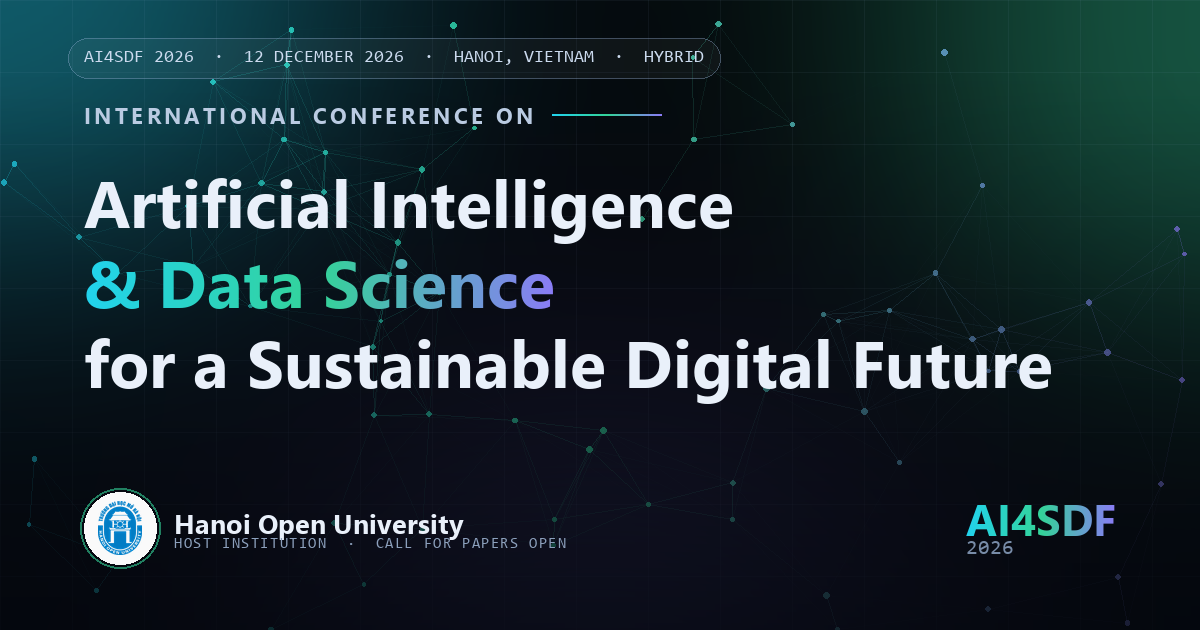
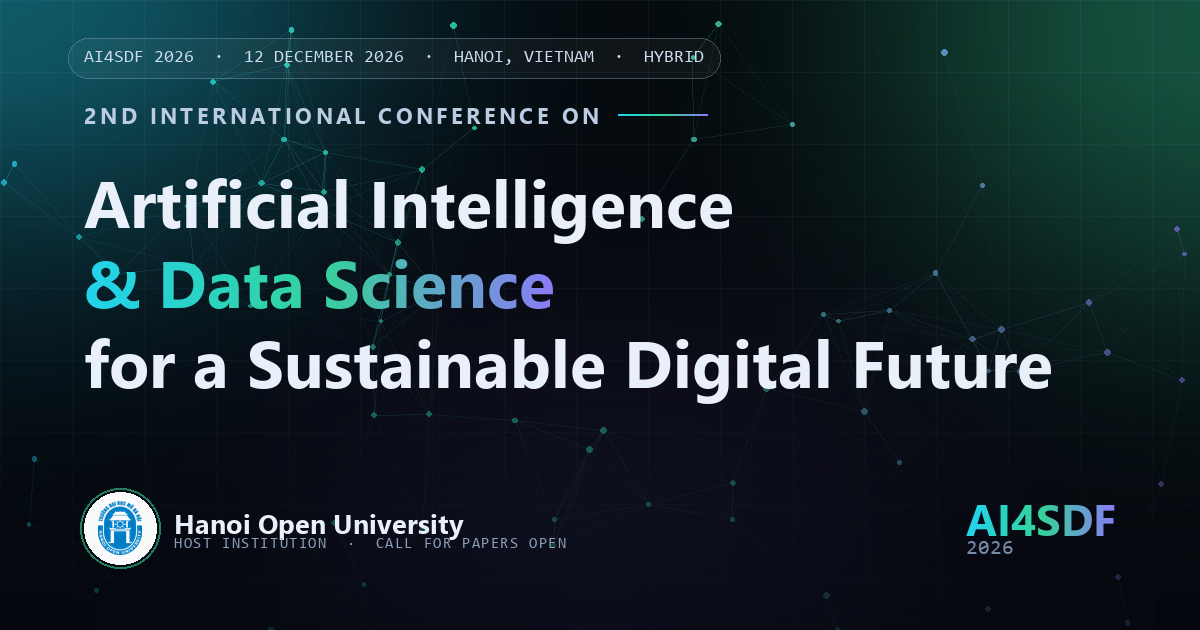
Mark the second edition, add the direct CMT link, drop the em dashes
Three changes asked for by the organisers:

- The conference is the second edition, as CMT itself records. "2nd"
  now appears in the hero heading, the page title, the Open Graph and
  JSON-LD metadata, the About paragraph, the footer, the Call for Papers
  sheet and the social cover image.
- Signing in to CMT is not enough on its own: without a direct link an
  author has to find the conference by name in CMT's list. Step 2 now
  carries the address, and a note explains why it is worth keeping.
  The walkthrough is six steps as a result, and the two places that said
  "five steps" now just say "the steps".
- Every em dash in the visible copy is gone, replaced by a colon, a
  semicolon, a comma, parentheses or a full stop as the sentence needed.
  The countdown placeholders read "00" instead of a dash before the
  script fills them in, and the spaced en dashes in the short spec chips
  are closed up.

Changed region(s): [[0.0617, 0.1508, 0.5858, 0.2111]]

diff --git a/index.html b/index.html
@@ -3,14 +3,14 @@
 <head>
 <meta charset="utf-8">
 <meta name="viewport" content="width=device-width, initial-scale=1, viewport-fit=cover">
-<title>AI4SDF 2026 — International Conference on Artificial Intelligence and Data Science for a Sustainable Digital Future</title>
-<meta name="description" content="AI4SDF 2026 — International Conference on Artificial Intelligence and Data Science for a Sustainable Digital Future. Hosted by Hanoi Open University, 12 December 2026. Hybrid, English-language. Call for papers open.">
+<title>AI4SDF 2026: 2nd International Conference on Artificial Intelligence and Data Science for a Sustainable Digital Future</title>
+<meta name="description" content="AI4SDF 2026: 2nd International Conference on Artificial Intelligence and Data Science for a Sustainable Digital Future. Hosted by Hanoi Open University, 12 December 2026. Hybrid, English-language. Call for papers open.">
 <meta name="theme-color" content="#04070E">
 <link rel="canonical" href="https://conf.hou.edu.vn/ai4sdf/">
 
 <meta property="og:type" content="website">
 <meta property="og:site_name" content="AI4SDF 2026">
-<meta property="og:title" content="AI4SDF 2026 — AI and Data Science for a Sustainable Digital Future">
+<meta property="og:title" content="AI4SDF 2026: 2nd International Conference on AI and Data Science">
 <meta property="og:description" content="International conference hosted by Hanoi Open University. 12 December 2026, Hanoi, Vietnam. Hybrid. Call for papers open until 30 October 2026.">
 <meta property="og:url" content="https://conf.hou.edu.vn/ai4sdf/">
 <meta property="og:image" content="https://conf.hou.edu.vn/ai4sdf/assets/img/og-cover.png">
@@ -20,13 +20,13 @@
 <link rel="preconnect" href="https://fonts.googleapis.com">
 <link rel="preconnect" href="https://fonts.gstatic.com" crossorigin>
 <link href="https://fonts.googleapis.com/css2?family=Sora:wght@300;400;600;700;800&family=Inter:wght@400;500;600;700&family=JetBrains+Mono:wght@400;600&display=swap" rel="stylesheet">
-<link rel="stylesheet" href="assets/css/style.css?v=20260828b">
+<link rel="stylesheet" href="assets/css/style.css?v=20260828c">
 
 <script type="application/ld+json">
 {
   "@context": "https://schema.org",
   "@type": "Event",
-  "name": "AI4SDF 2026 — International Conference on Artificial Intelligence and Data Science for a Sustainable Digital Future",
+  "name": "AI4SDF 2026: 2nd International Conference on Artificial Intelligence and Data Science for a Sustainable Digital Future",
   "startDate": "2026-12-12T08:30:00+07:00",
   "endDate": "2026-12-12T16:00:00+07:00",
   "eventStatus": "https://schema.org/EventScheduled",
@@ -100,7 +100,7 @@
     </p>
 
     <h1 class="hero__title" data-reveal>
-      <span class="hero__title-over">International Conference on</span>
+      <span class="hero__title-over">2nd International Conference on</span>
       <span class="hero__title-line">Artificial Intelligence</span>
       <span class="hero__title-line hero__title-line--grad">&amp; Data Science</span>
       <span class="hero__title-line">for a Sustainable</span>
@@ -125,13 +125,13 @@
     </div>
 
     <div class="countdown" id="countdown" data-reveal aria-label="Time remaining until the conference">
-      <div class="countdown__unit"><b data-cd="d">—</b><i>days</i></div>
+      <div class="countdown__unit"><b data-cd="d">00</b><i>days</i></div>
       <div class="countdown__sep">:</div>
-      <div class="countdown__unit"><b data-cd="h">—</b><i>hours</i></div>
+      <div class="countdown__unit"><b data-cd="h">00</b><i>hours</i></div>
       <div class="countdown__sep">:</div>
-      <div class="countdown__unit"><b data-cd="m">—</b><i>minutes</i></div>
+      <div class="countdown__unit"><b data-cd="m">00</b><i>minutes</i></div>
       <div class="countdown__sep">:</div>
-      <div class="countdown__unit"><b data-cd="s">—</b><i>seconds</i></div>
+      <div class="countdown__unit"><b data-cd="s">00</b><i>seconds</i></div>
       <p class="countdown__note">until the opening session, 08:30 ICT</p>
     </div>
     </div><!-- /.hero__copy -->
@@ -163,7 +163,7 @@
     <div class="about">
       <div class="about__copy" data-reveal>
         <p class="lead">
-          Hanoi Open University is pleased to announce the <strong>International Conference on Artificial
+          Hanoi Open University is pleased to announce the <strong>2nd International Conference on Artificial
           Intelligence and Data Science for a Sustainable Digital Future (AI4SDF&nbsp;2026)</strong>.
         </p>
         <p>
@@ -172,8 +172,8 @@
           across education, healthcare, agriculture, environment and governance.
         </p>
         <p>
-          Its scope spans the most recent shifts in the field — agentic AI and multi-agent systems, new-generation
-          large language models, multimodal and generative AI — read against the requirements of sustainable
+          Its scope spans the most recent shifts in the field: agentic AI and multi-agent systems, new-generation
+          large language models, multimodal and generative AI, all read against the requirements of sustainable
           development, innovation and national digital transformation. Alongside the technology, AI4SDF 2026 gives
           equal weight to consequences: the labour market, higher education, and the ethics and governance of
           responsible AI.
@@ -331,7 +331,7 @@
     </div>
 
     <p class="tracks__note" data-reveal>
-      Submissions that cut across tracks are welcome — indicate your preferred track at submission and the
+      Submissions that cut across tracks are welcome; indicate your preferred track at submission and the
       programme committee will route the paper accordingly.
     </p>
   </div>
@@ -356,7 +356,7 @@
       </li>
       <li class="tl" data-date="2026-11-15T23:59:00+07:00" data-reveal>
         <span class="tl__node" aria-hidden="true"></span>
-        <span class="tl__date">1 – 15 November 2026</span>
+        <span class="tl__date">1–15 November 2026</span>
         <span class="tl__title">Acceptance notifications</span>
         <span class="tl__desc">Review outcomes and revision requests are sent to corresponding authors.</span>
         <span class="tl__badge"></span>
@@ -421,7 +421,7 @@
         <div class="speaker__body">
           <p class="speaker__flag">Malaysia</p>
           <h3 class="speaker__name">Prof. Dr. Nantha Kumar Subramaniam</h3>
-          <p class="speaker__role">Dean, Faculty of Computing and Analytics — Open University Malaysia</p>
+          <p class="speaker__role">Dean, Faculty of Computing and Analytics, Open University Malaysia</p>
           <p class="speaker__bio">
             Professor and Dean at Open University Malaysia, and formerly Adviser on Technology-enabled Learning
             at the Commonwealth of Learning in Canada. His work builds AI-powered feedback systems, educational
@@ -502,7 +502,7 @@
       </div>
 
       <div class="prog__block">
-        <p class="prog__phase"><span>Parallel sessions — morning</span></p>
+        <p class="prog__phase"><span>Morning parallel sessions</span></p>
         <div class="prog__row">
           <time class="prog__time">10:15 – 11:15</time>
           <div class="prog__what"><h3>Thematic paper presentations</h3></div>
@@ -522,7 +522,7 @@
       </div>
 
       <div class="prog__block">
-        <p class="prog__phase"><span>Parallel sessions — afternoon</span></p>
+        <p class="prog__phase"><span>Afternoon parallel sessions</span></p>
         <div class="prog__row">
           <time class="prog__time">13:30 – 14:30</time>
           <div class="prog__what"><h3>Thematic paper presentations</h3></div>
@@ -622,7 +622,7 @@
         <div class="cta__item">
           <span class="cta__k">02</span>
           <h3>Submit through CMT by 30 Oct 2026</h3>
-          <p>Everything goes through Microsoft CMT — the five steps are set out below.</p>
+          <p>Everything goes through Microsoft CMT; the steps are set out below.</p>
         </div>
         <div class="cta__item">
           <span class="cta__k">03</span>
@@ -646,13 +646,13 @@
           <h3>Paper template &amp; author guidelines</h3>
           <p>
             The official Word template, with the formatting rules, section structure and a worked
-            reference list already in place — write straight into it.
+            reference list already in place. Write straight into it.
           </p>
           <ul class="tmpl__specs">
             <li><b>English</b><span>manuscript language</span></li>
-            <li><b>8 – 15 pages</b><span>research paper</span></li>
+            <li><b>8–15 pages</b><span>research paper</span></li>
             <li><b>up to 20 pages</b><span>survey paper</span></li>
-            <li><b>70 – 200 words</b><span>abstract</span></li>
+            <li><b>70–200 words</b><span>abstract</span></li>
           </ul>
         </div>
 
@@ -665,16 +665,27 @@
       <div class="cmt" data-reveal>
         <div class="cmt__head">
           <h3>How to submit through Microsoft CMT</h3>
-          <p>Prepare the manuscript on the template above first, then work through these five steps.</p>
+          <p>Prepare the manuscript on the template above first, then work through the steps below.</p>
         </div>
         <ol class="cmt__steps">
-          <li>Sign in to Microsoft CMT and select <strong>Create new submission</strong>.</li>
+          <li>
+            Sign in to Microsoft CMT, or create an account if you do not have one yet.
+          </li>
+          <li>
+            Open the AI4SDF 2026 page and select <strong>Create new submission</strong>.
+            <a class="cmt__link" href="https://cmt3.research.microsoft.com/AISDF2026"
+               target="_blank" rel="noopener">cmt3.research.microsoft.com/AISDF2026</a>
+          </li>
           <li>Enter the paper title, abstract, keywords and author information carefully.</li>
           <li>Select the most appropriate conference track for your paper.</li>
           <li>Upload your manuscript, prepared according to the AI4SDF 2026 template.</li>
           <li>Review all submission information before clicking <strong>Submit</strong>.</li>
         </ol>
         <p class="cmt__note">
+          The link in step 2 opens AI4SDF 2026 directly. Without it you would have to find the
+          conference by name in the CMT list, so keep it to hand once your account is ready.
+        </p>
+        <p class="cmt__note cmt__note--tight">
           Authors may update their submission through CMT until the submission deadline. Please
           ensure that all authors and their affiliations are entered correctly.
         </p>
@@ -705,14 +716,14 @@
     <div class="venue">
       <div class="venue__card venue__card--main" data-reveal>
         <h3>Hanoi Open University</h3>
-        <p class="venue__addr">Hanoi, Vietnam — specific venue to be announced</p>
+        <p class="venue__addr">Hanoi, Vietnam (specific venue to be announced)</p>
         <p>
           The conference is held on site at Hanoi Open University and streamed for remote participants.
         </p>
         <dl class="venue__list">
-          <div><dt>On site</dt><dd>Hanoi Open University — exact hall announced with the final programme</dd></div>
+          <div><dt>On site</dt><dd>Hanoi Open University. Exact hall announced with the final programme</dd></div>
           <div><dt>Online</dt><dd>Joining details are sent to registered participants before the event</dd></div>
-          <div><dt>Delegates</dt><dd>120 expected — 100 from Vietnam, 20 from abroad (5 attending in person)</dd></div>
+          <div><dt>Delegates</dt><dd>120 expected: 100 from Vietnam, 20 from abroad, 5 of them in person</dd></div>
           <div><dt>Working day</dt><dd>08:30 – 16:00 Indochina Time, plenary followed by parallel sessions</dd></div>
         </dl>
         <a class="link-arrow" href="https://hou.edu.vn" target="_blank" rel="noopener">hou.edu.vn</a>
@@ -813,7 +824,7 @@
     <div class="footer__brand">
       <p class="footer__acr">AI4SDF <span>2026</span></p>
       <p class="footer__full">
-        International Conference on Artificial Intelligence and Data Science
+        2nd International Conference on Artificial Intelligence and Data Science
         for a Sustainable Digital Future
       </p>
       <p class="footer__host">Hosted by Hanoi Open University · 12 December 2026 · Hanoi, Vietnam</p>
@@ -837,6 +848,6 @@
   </div>
 </footer>
 
-<script src="assets/js/main.js?v=20260828b" defer></script>
+<script src="assets/js/main.js?v=20260828c" defer></script>
 </body>
 </html>

diff --git a/cfp.html b/cfp.html
@@ -3,14 +3,14 @@
 <head>
 <meta charset="utf-8">
 <meta name="viewport" content="width=device-width, initial-scale=1">
-<title>Call for Papers — AI4SDF 2026</title>
-<meta name="description" content="Call for Papers — International Conference on Artificial Intelligence and Data Science for a Sustainable Digital Future (AI4SDF 2026), Hanoi Open University, 12 December 2026.">
+<title>Call for Papers · AI4SDF 2026</title>
+<meta name="description" content="Call for Papers: 2nd International Conference on Artificial Intelligence and Data Science for a Sustainable Digital Future (AI4SDF 2026), Hanoi Open University, 12 December 2026.">
 <meta name="theme-color" content="#04070E">
 <link rel="icon" href="assets/img/favicon.svg" type="image/svg+xml">
 <link rel="preconnect" href="https://fonts.googleapis.com">
 <link rel="preconnect" href="https://fonts.gstatic.com" crossorigin>
 <link href="https://fonts.googleapis.com/css2?family=Sora:wght@400;600;700;800&family=Inter:wght@400;500;600&family=JetBrains+Mono:wght@400;600&display=swap" rel="stylesheet">
-<link rel="stylesheet" href="assets/css/style.css?v=20260828b">
+<link rel="stylesheet" href="assets/css/style.css?v=20260828c">
 <style>
   /* ---- Call for Papers sheet: a printable one-pager on the same design system ---- */
   .sheet{max-width:900px;margin-inline:auto;padding:calc(var(--nav-h) + 3rem) 0 5rem}
@@ -70,7 +70,7 @@
       <p class="sheet__acr">AI4SDF 2026</p>
     </header>
 
-    <h1>International Conference on Artificial Intelligence and <em>Data Science for a Sustainable Digital Future</em></h1>
+    <h1>2nd International Conference on Artificial Intelligence and <em>Data Science for a Sustainable Digital Future</em></h1>
 
     <ul class="sheet__meta">
       <li>12 December 2026</li>
@@ -83,7 +83,7 @@
     <section>
       <p class="rule"><span>About the conference</span></p>
       <p class="lead">
-        Hanoi Open University is pleased to announce the International Conference on Artificial Intelligence
+        Hanoi Open University is pleased to announce the 2nd International Conference on Artificial Intelligence
         and Data Science for a Sustainable Digital Future (AI4SDF 2026).
       </p>
       <p>
@@ -136,15 +136,15 @@
     <section>
       <p class="rule"><span>Submission format</span></p>
       <p>
-        Manuscripts must follow the conference template — one-column layout, English throughout,
+        Manuscripts must follow the conference template: one-column layout, English throughout,
         numbered sections and numbered display equations.
       </p>
       <table class="dates">
         <tbody>
           <tr><td>Language</td><td>English</td></tr>
-          <tr><td>Research paper</td><td>8 – 15 pages</td></tr>
+          <tr><td>Research paper</td><td>8–15 pages</td></tr>
           <tr><td>Survey paper</td><td>up to 20 pages</td></tr>
-          <tr><td>Abstract</td><td>70 – 200 words</td></tr>
+          <tr><td>Abstract</td><td>70–200 words</td></tr>
           <tr><td>Keywords</td><td>lower case, alphabetical, comma separated</td></tr>
         </tbody>
       </table>
@@ -160,7 +160,9 @@
         <a class="link-arrow" href="https://cmt3.research.microsoft.com/AISDF2026" target="_blank" rel="noopener">cmt3.research.microsoft.com/AISDF2026</a>
       </p>
       <ul class="bullets" style="margin-top:1rem">
-        <li>Sign in to Microsoft CMT and select <strong>Create new submission</strong>.</li>
+        <li>Sign in to Microsoft CMT, or create an account if you do not have one yet.</li>
+        <li>Open the AI4SDF 2026 page at the address above and select <strong>Create new submission</strong>.
+            Going through this link avoids having to find the conference by name in the CMT list.</li>
         <li>Enter the paper title, abstract, keywords and author information carefully.</li>
         <li>Select the most appropriate conference track for your paper.</li>
         <li>Upload your manuscript, prepared according to the AI4SDF 2026 template.</li>
@@ -178,7 +180,7 @@
         <thead><tr><th scope="col">Milestone</th><th scope="col">Date</th></tr></thead>
         <tbody>
           <tr><td>Full paper submission deadline</td><td>30 October 2026</td></tr>
-          <tr><td>Acceptance notifications</td><td>1 – 15 November 2026</td></tr>
+          <tr><td>Acceptance notifications</td><td>1–15 November 2026</td></tr>
           <tr><td>Registration deadline</td><td>28 November 2026</td></tr>
           <tr><td>Conference date</td><td>12 December 2026</td></tr>
           <tr><td>Venue</td><td>Hanoi (to be announced)</td></tr>

diff --git a/assets/css/style.css b/assets/css/style.css
@@ -605,10 +605,18 @@ strong{color:var(--tx);font-weight:600}
   font-family:var(--f-mono);font-size:.68rem;letter-spacing:.04em;color:var(--tx);
 }
 .cmt__steps strong{color:var(--tx);font-weight:600}
+.cmt__link{
+  display:block;margin-top:.3rem;
+  font-family:var(--f-mono);font-size:.84rem;letter-spacing:.01em;color:var(--cyan);
+  text-decoration:underline;text-underline-offset:3px;text-decoration-thickness:1px;
+  word-break:break-word;transition:color .25s var(--ease);
+}
+.cmt__link:hover{color:var(--emerald)}
 .cmt__note{
   margin-top:1.35rem;padding-top:1.1rem;border-top:1px solid var(--line);
   font-size:.9rem;color:var(--tx-3);max-width:72ch;
 }
+.cmt__note--tight{margin-top:.75rem;padding-top:0;border-top:0}
 
 .cta--tail{margin-top:clamp(1.8rem,3.4vw,2.4rem)}
 .cta--tail .cta__actions{margin-top:0}
